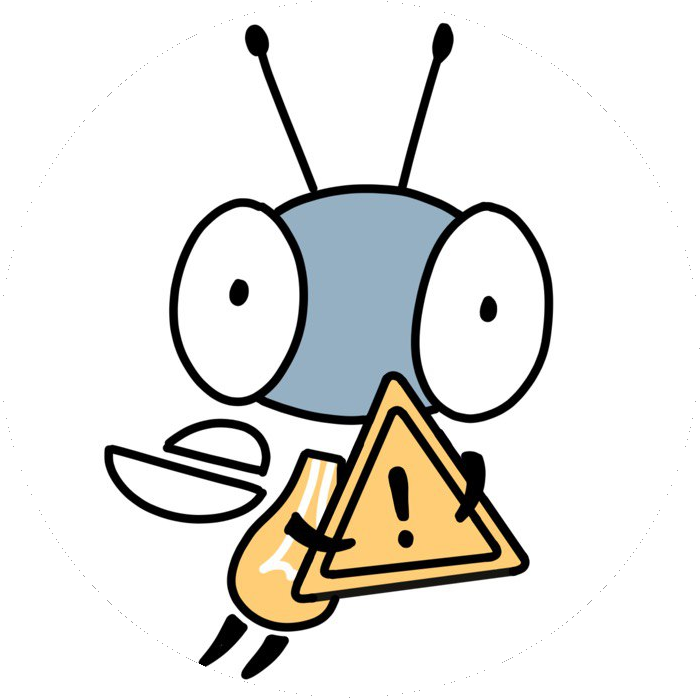
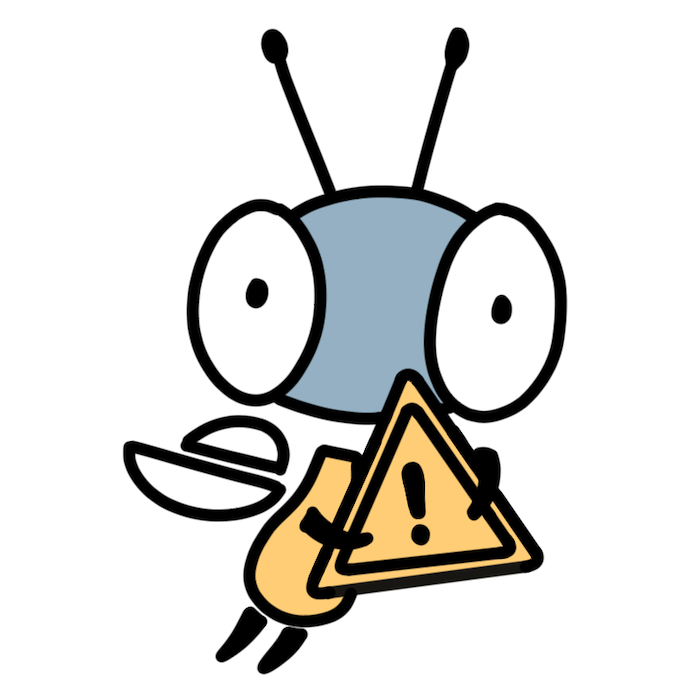
add info and warning pics

Changed region(s): [[0.15, 0.03, 0.81, 0.99], [0.33, 0.39, 0.39, 0.45]]

diff --git a/assets/_custom.scss b/assets/_custom.scss
@@ -4,8 +4,19 @@
     margin-top: 0px;
     vertical-align: top;
 }
+.hint-icon.info {
+    display: inline-block;
+    max-width: 100px;
+    margin-top: 0px;
+    vertical-align: top;
+}
 
 .book-hint.warning {
+    display: inline-block;
+    max-width: calc(100% - 100px - 10px);
+}
+
+.book-hint.info {
     display: inline-block;
     max-width: calc(100% - 100px - 10px);
 }

diff --git a/layouts/shortcodes/hint.html b/layouts/shortcodes/hint.html
@@ -1,6 +1,9 @@
 {{ if eq (.Get 0) "warning" }}
     <img src="/warn.png" class="hint-icon {{ .Get 0 }}" />
 {{ end }}
+{{ if eq (.Get 0) "info" }}
+    <img src="/info.png" class="hint-icon {{ .Get 0 }}" />
+{{ end }}
 <blockquote class="book-hint {{ .Get 0 }}">
     {{ .Inner | .Page.RenderString }}
 </blockquote>
